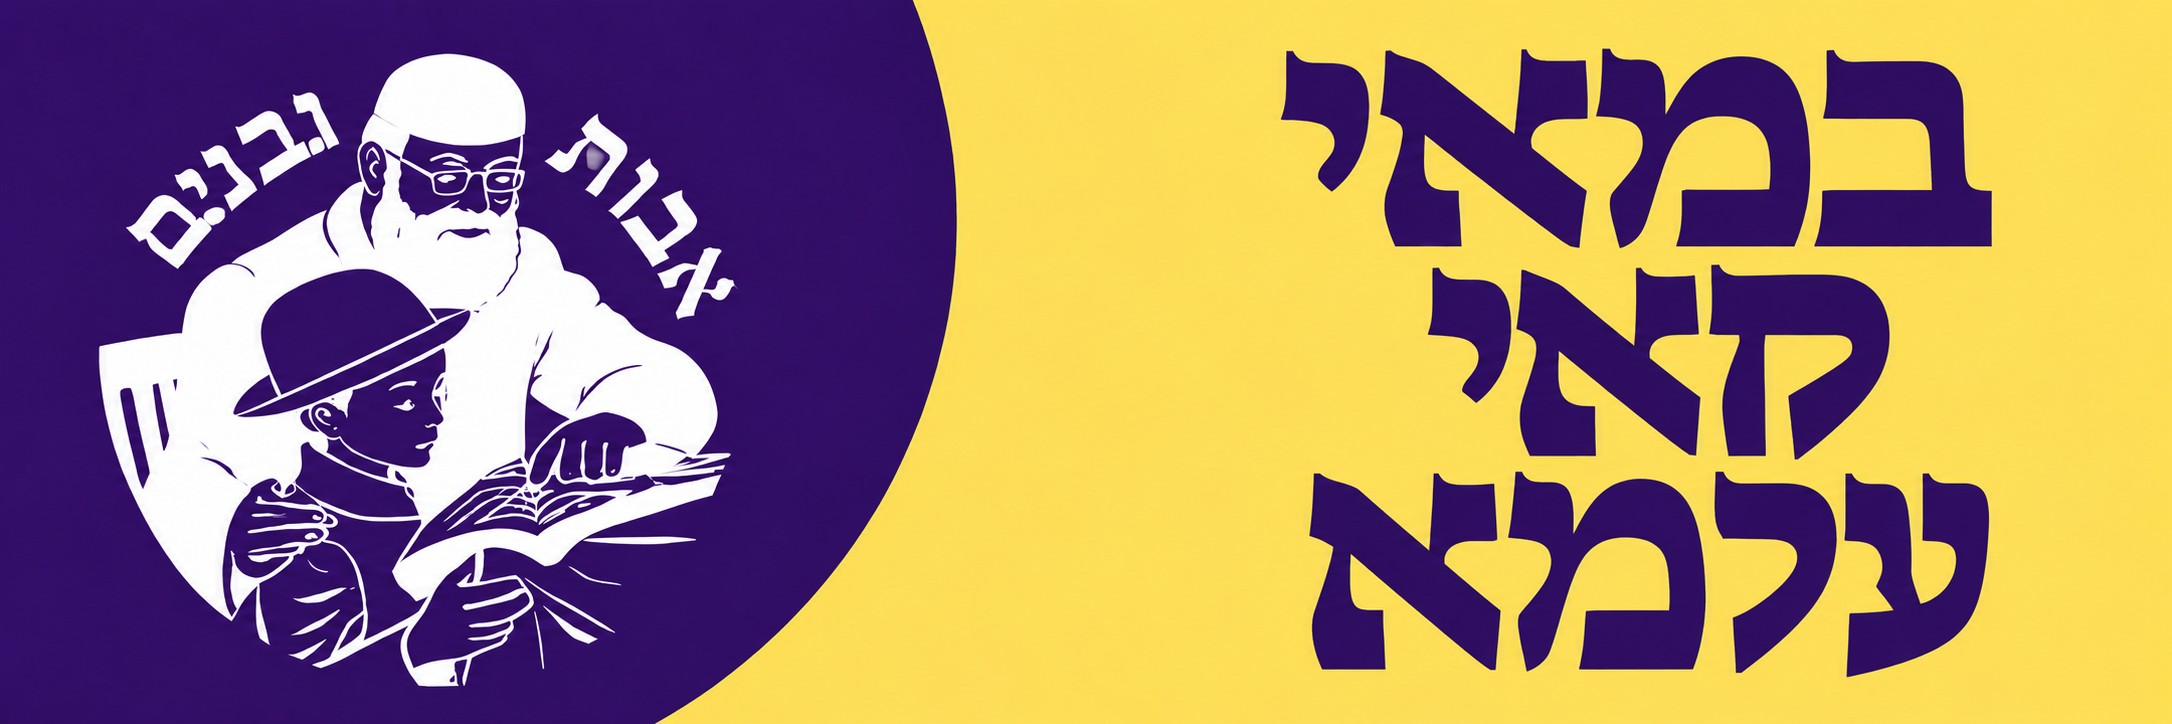
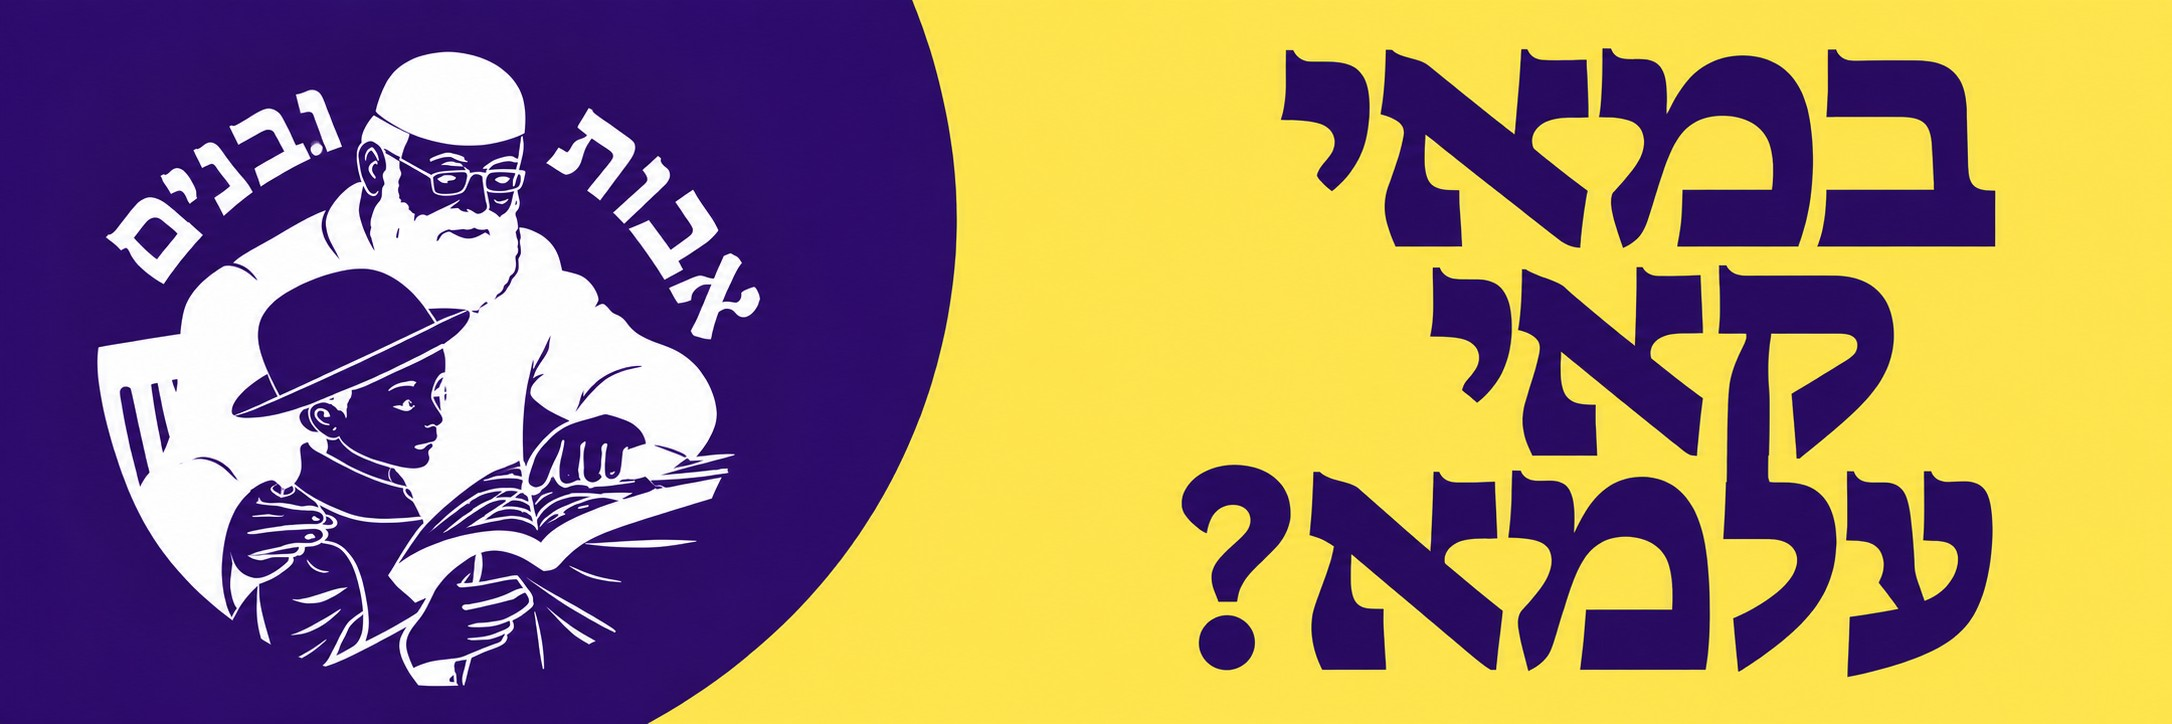
Polish Avos Hebrew lettering, add question mark and join lamed to kuf

diff --git a/index.html b/index.html
@@ -200,7 +200,7 @@
       <p id="avosSeasonStatus" class="avos-season-note" role="status">Open this tab to load live sponsorships.</p>
       <div id="avosSeasonPreview" class="avos-season-viewport">
         <article id="avosSeasonSheet" class="avos-season-sheet" aria-label="Avos Ubanim full season sponsorship sheet">
-          <img id="avosSeasonBackground" class="avos-season-background" crossorigin="anonymous" src="assets/avos-digital-header.jpg" alt="אבות ובנים — במאי קאי עלמא" width="2048" height="683">
+          <img id="avosSeasonBackground" class="avos-season-background" crossorigin="anonymous" src="assets/avos-digital-header.jpg?v=2" alt="אבות ובנים — במאי קאי עלמא?" width="2048" height="683">
           <div class="avos-sheet-title">KHAL ZICHRON YAKOV · AVOS UBANIM · 5787 / 2026–2027</div>
           <div class="avos-table-head"><span>Date</span><span>Motzaei Shabbos / Hebrew date</span><span>Sponsorship &amp; dedication</span></div><div id="avosSeasonRows" class="avos-season-rows"></div>
         </article>
